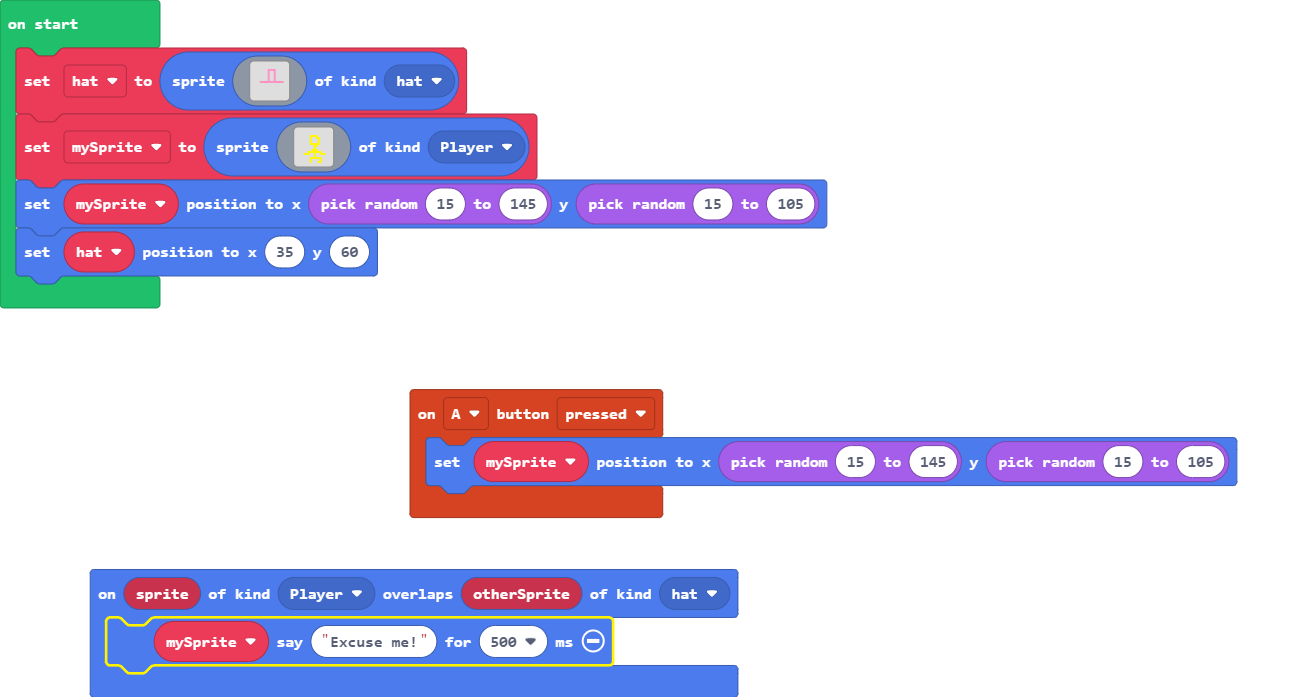
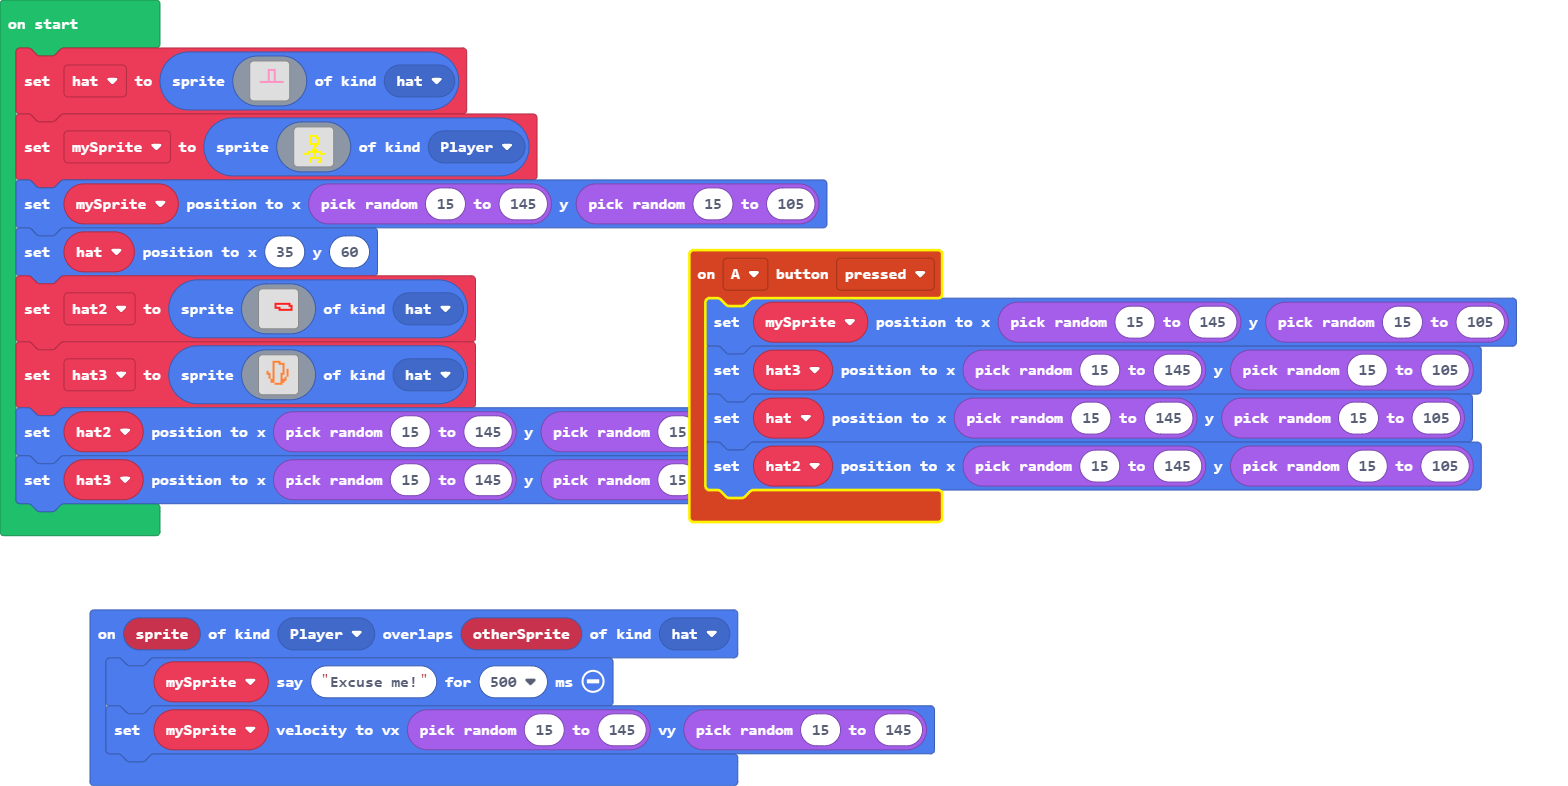
random overlap task

diff --git a/main.ts b/main.ts
@@ -3,12 +3,19 @@ namespace SpriteKind {
 }
 controller.A.onEvent(ControllerButtonEvent.Pressed, function () {
     mySprite.setPosition(randint(15, 145), randint(15, 105))
+    hat3.setPosition(randint(15, 145), randint(15, 105))
+    hat.setPosition(randint(15, 145), randint(15, 105))
+    hat2.setPosition(randint(15, 145), randint(15, 105))
 })
 sprites.onOverlap(SpriteKind.Player, SpriteKind.hat, function (sprite, otherSprite) {
     mySprite.say("Excuse me!", 500)
+    mySprite.setVelocity(randint(15, 145), randint(15, 145))
 })
+let hat3: Sprite = null
+let hat2: Sprite = null
 let mySprite: Sprite = null
-let hat = sprites.create(img`
+let hat: Sprite = null
+hat = sprites.create(img`
     . . . . . . . . . . . . . . . . 
     . . . . . . . . . . . . . . . . 
     . . . . . . . 3 3 3 3 . . . . . 
@@ -46,3 +53,41 @@ mySprite = sprites.create(img`
     `, SpriteKind.Player)
 mySprite.setPosition(randint(15, 145), randint(15, 105))
 hat.setPosition(35, 60)
+hat2 = sprites.create(img`
+    . . . . . . . . . . . . . . . . 
+    . . . . . . . . . . . . . . . . 
+    . . . . . . . . . . . . . . . . 
+    . . . . . . . . . . . . . . . . 
+    . . . . . . . . . . . . . . . . 
+    . . . . . . 2 2 2 2 2 2 2 2 . . 
+    . . . . . . 2 . . . . . . 2 2 . 
+    . . . . . . 2 2 2 . . . . . 2 . 
+    . . . . . . . . 2 2 2 2 2 2 2 . 
+    . . . . . . . . . . . . . . . . 
+    . . . . . . . . . . . . . . . . 
+    . . . . . . . . . . . . . . . . 
+    . . . . . . . . . . . . . . . . 
+    . . . . . . . . . . . . . . . . 
+    . . . . . . . . . . . . . . . . 
+    . . . . . . . . . . . . . . . . 
+    `, SpriteKind.hat)
+hat3 = sprites.create(img`
+    . . . . . . . . . . . . . . . . 
+    . . . . . 4 4 4 4 . . . . . . . 
+    . . . . . 4 . . 4 4 4 . . . . . 
+    . . . . . 4 . . . . 4 . . . . . 
+    . . . . . 4 . . . . 4 . . . . . 
+    . . . . . 4 . . . . 4 . 4 . . . 
+    . . 4 . . 4 . . . . 4 . 4 . . . 
+    . . 4 4 . 4 . . . 4 4 . 4 . . . 
+    . . . 4 . 4 . . . 4 . . 4 . . . 
+    . . . 4 . 4 . . . 4 . 4 . . . . 
+    . . . . 4 4 . . . 4 4 4 . . . . 
+    . . . . 4 4 . . . 4 4 . . . . . 
+    . . . . . . 4 4 4 4 . . . . . . 
+    . . . . . . . . . . . . . . . . 
+    . . . . . . . . . . . . . . . . 
+    . . . . . . . . . . . . . . . . 
+    `, SpriteKind.hat)
+hat2.setPosition(randint(15, 145), randint(15, 105))
+hat3.setPosition(randint(15, 145), randint(15, 105))
